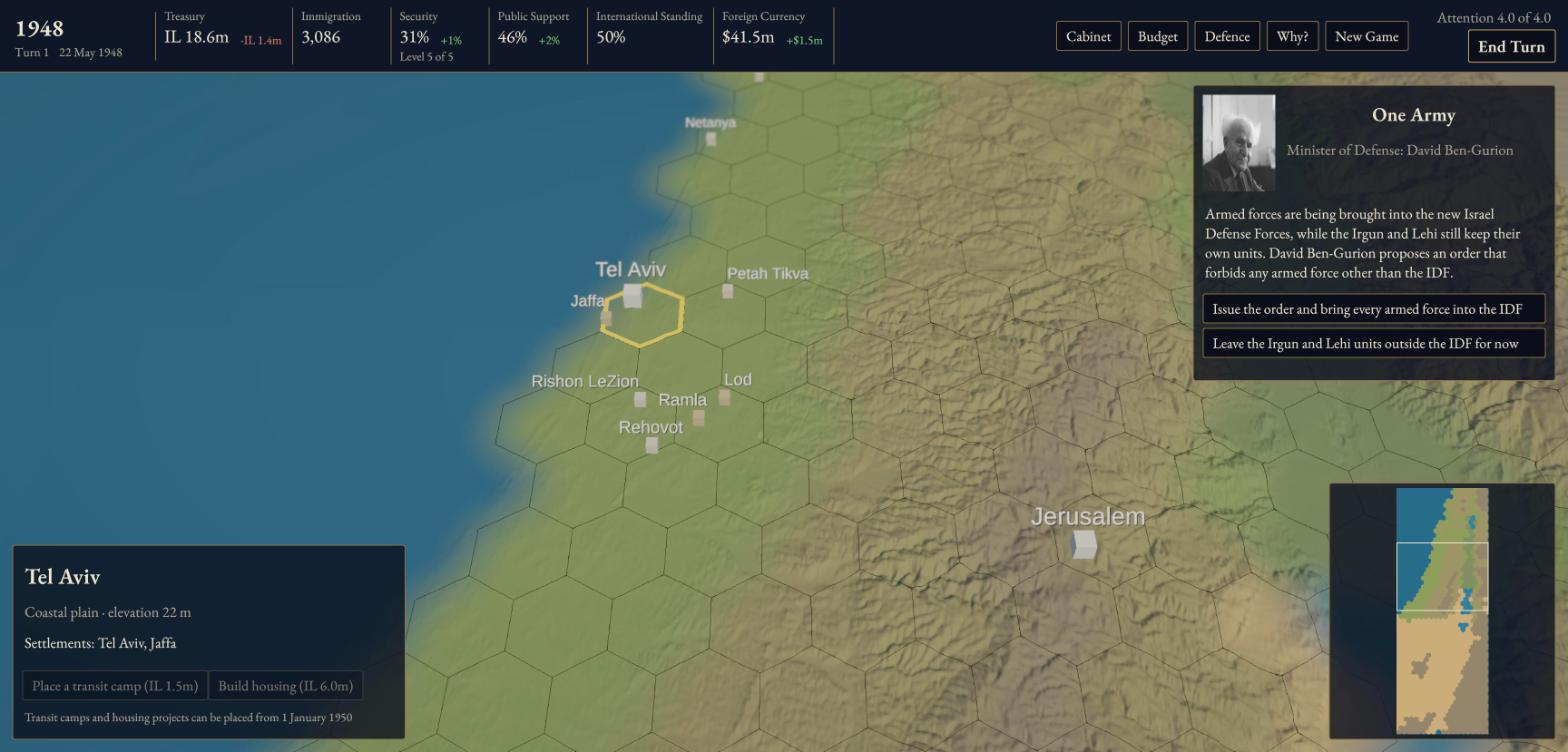
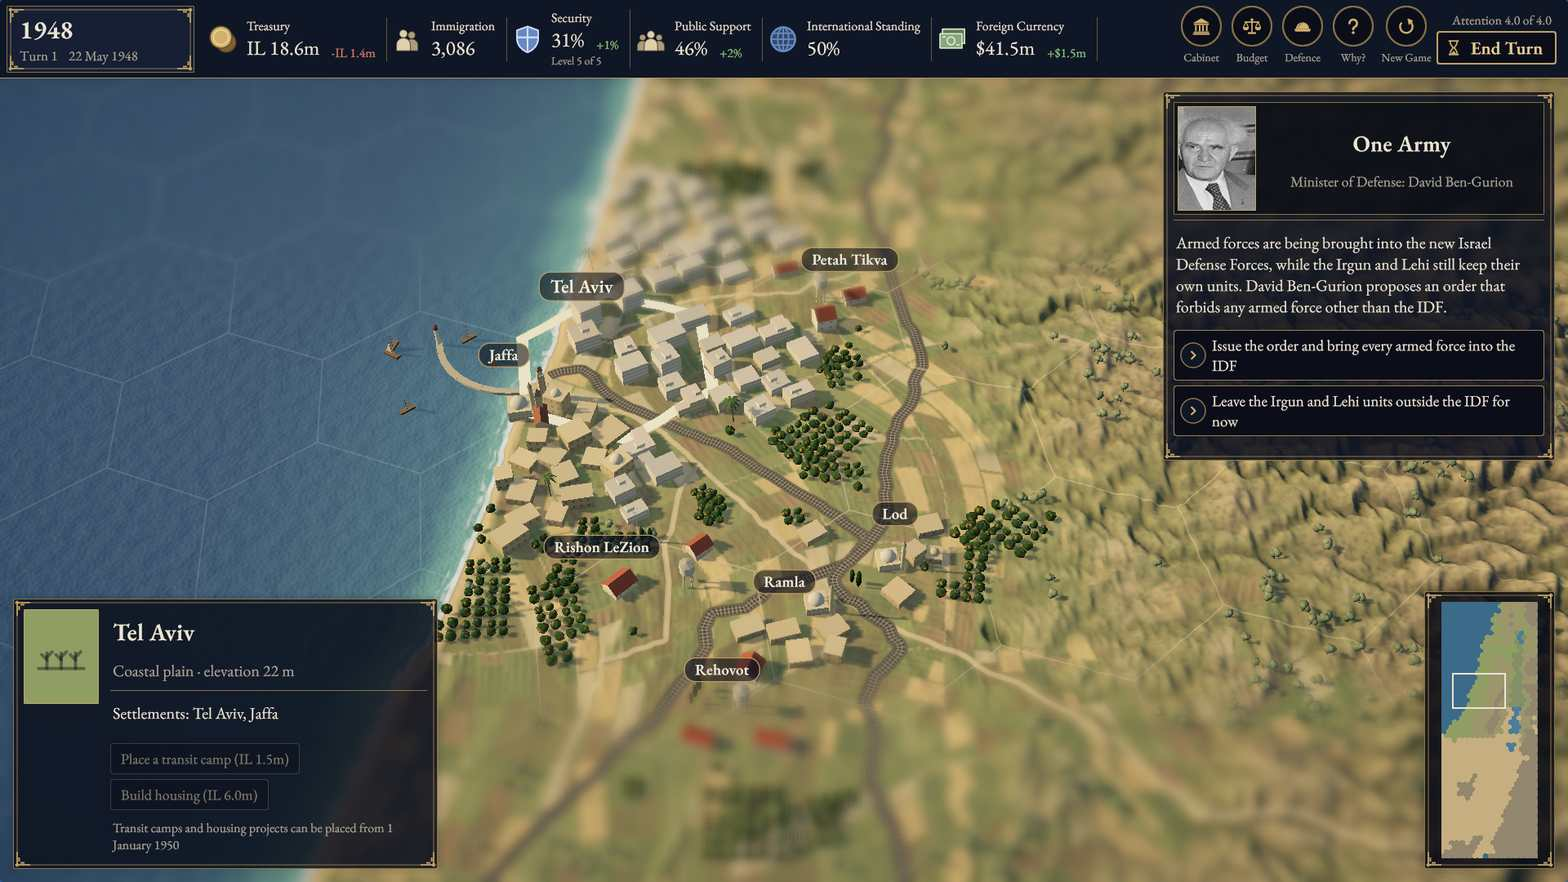
README: current screenshots and facts (2026-10-11) (refs #202) (#238)
* docs(readme): screenshots of current main and stale lines fixed

Re-take the three README screenshots from a WebGL build of main (16c9573):
the player's own ?shot frame at the gameplay03 pose, turn 1 of a fresh
golden-seed game (?smoke=1), 1920x1080, encoded at 1568 px wide. The
social preview is rebuilt from the new map shot (docs/RELEASING.md).
Caption date 2026-10-11; the map alt text names what the frame shows.

Stale lines: Visual v1 is done, settlements are placeholder kits and trees
(#179), the tab icon was drawn with AI help (#169), and the portraits
include CC0 files.

* WIP: README map alt text for roads and land use; social-preview row says padded

Screenshots still from 16c9573; re-shoot pending (machine on hold).

* docs(readme): map and Cabinet shots and social preview from main 19de7d1, normal play

Fresh golden-seed game at turn 1 (?smoke=1), camera moved to gameplay03 with real input,
no ?shot (so no showcase train). Why shot still to come.

* docs(readme): Why shot from main 19de7d1, normal play

* docs(releasing): the README shots are now 1568 x 882 (16:9), still below Steam's 1920 x 1080

---------

diff --git a/scripts/oss/tests/test_readme.py b/scripts/oss/tests/test_readme.py
@@ -128,7 +128,7 @@ def test_contributing_links_the_issue_filters_and_the_open_issues():
 
 def test_hebrew_readme_keeps_the_english_facts():
     he = read("README.he.md")
-    for fact in ("15 במאי 1948", "M3", "0.1.0", "2026-10-10", "M4", "CC BY-SA 4.0", "CC0", "Firaxis", "2K", "1936",
+    for fact in ("15 במאי 1948", "M3", "0.1.0", "2026-10-11", "M4", "CC BY-SA 4.0", "CC0", "Firaxis", "2K", "1936",
                  "6000.3.25f1", "docs/CONTENT_POLICY.md", "historical_accuracy.yml", "SECURITY.md"):
         assert fact in he, fact
     assert "מסחרית" in he  # a commercial edition is planned

diff --git a/scripts/oss/tests/test_store_review_corrections.py b/scripts/oss/tests/test_store_review_corrections.py
@@ -37,7 +37,7 @@ def test_checklist_reports_measured_readme_screenshots():
     text = checklist()
     for width, height in sizes:
         assert f'{width} x {height}' in text
-    assert 'not 16:9' in text
+    assert 'smaller than this minimum' in text
 
 
 def test_trailer_recommendation_is_separate_from_project_rule():

diff --git a/README.md b/README.md
@@ -38,12 +38,12 @@ A deterministic C# simulation runs underneath. The same choices always give the 
 ## What it looks like today
 
 <p align="center">
-  <img src="docs/images/build-m3-map.jpg" alt="Current build: the terrain map of the coastal plain and Jerusalem with hex lines, settlement markers, the top bar and an event card" width="820">
+  <img src="docs/images/build-m3-map.jpg" alt="Current build: the coastal plain around Tel Aviv, Jaffa and Ramla with hex lines, settlement models, fields and groves, railways and roads, the top bar and an event card" width="820">
 </p>
 <p align="center">
   <img src="docs/images/build-m3-cabinet.jpg" alt="Current build: the Cabinet screen listing the Provisional Government's ministers with portraits" width="405">
   <img src="docs/images/build-m3-why.jpg" alt="Current build: the Why panel explaining a turn's changes" width="405">
-  <br><em>Real screenshots from build 0.1.0 (M3), 2026-10-10.</em>
+  <br><em>Real screenshots from build 0.1.0 (M3), 2026-10-11.</em>
 </p>
 
 ## Is this any good?
@@ -61,7 +61,7 @@ It is an early, honest prototype.
 - The browser (WebGL) build.
 
 **What is missing:**
-- The art in the concept image above. Settlements are still simple markers.
+- The art in the concept image above. Settlements and trees are still placeholder art.
 - Diplomacy.
 - War mode.
 - Anything after 1951.
@@ -69,7 +69,7 @@ It is an early, honest prototype.
 
 ## Roadmap
 
-- **Visual v1 (next):** shadows at map scale, a two-band tilt-shift, a stylised terrain shader, a graded sea, a cleaner hex grid and serif labels.
+- **Visual v1 (done):** shadows at map scale, a two-band tilt-shift, a stylised terrain shader, a graded sea, a cleaner hex grid and serif labels.
 - **M4:** the full 1948–1956 slice, war mode for 1948 and Suez, the legacy report, a historian review and a hosted browser build.
 - **Art track:** era-correct 3D settlements, vegetation and units, toward the concept image.
 
@@ -125,7 +125,7 @@ You need Unity **6000.3.25f1 (6.3 LTS)** with Web Build Support; the exact versi
 
 This project is built with heavy AI assistance, disclosed here using itch.io's categories:
 - **Code:** written with AI coding agents and reviewed through tests and review gates.
-- **Graphics:** the concept and promo images in `promo/` are AI-generated. The game's terrain comes from real elevation data. The portraits are public-domain photographs.
+- **Graphics:** the concept and promo images in `promo/` are AI-generated, and the web page's tab icon was drawn with AI help. The game's terrain comes from real elevation data. The portraits are public-domain or CC0 photographs.
 - **Text:** event and content text was drafted with AI, and every fact is checked against the cited source.
 - **Sound:** none yet.
 
@@ -137,7 +137,7 @@ Nothing is generated live while you play.
 - **Original art, docs and data:** [CC BY 4.0](LICENSES/CC-BY-4.0.txt).
 - **Game content text** (`content/`, which paraphrases its sources, many from Wikipedia): [CC BY-SA 4.0](LICENSES/CC-BY-SA-4.0.txt).
 - **AI-generated images:** marked [CC0](LICENSES/CC0-1.0.txt), with no rights claimed.
-- **Third-party material:** fonts, public-domain portraits and the Unity engine and packages are under their own terms.
+- **Third-party material:** fonts, public-domain and CC0 portraits and the Unity engine and packages are under their own terms.
 
 Details are in [LICENSING.md](LICENSING.md); attributions are in [NOTICE](NOTICE) and [THIRD-PARTY-NOTICES.md](THIRD-PARTY-NOTICES.md), and every image's source is in [ASSETS.yaml](ASSETS.yaml).
 

diff --git a/README.he.md b/README.he.md
@@ -31,7 +31,7 @@ https://github.com/user-attachments/assets/56571db8-446b-444b-8db9-fce57dac53a7
 
 <div dir="rtl">
 
-<p align="center"><em>צילומי מסך אמיתיים מגרסה 0.1.0 (M3), 2026-10-10.</em></p>
+<p align="center"><em>צילומי מסך אמיתיים מגרסה 0.1.0 (M3), 2026-10-11.</em></p>
 
 </div>
 
@@ -95,7 +95,7 @@ https://github.com/user-attachments/assets/56571db8-446b-444b-8db9-fce57dac53a7
 
 ## שימוש בבינה מלאכותית
 
-הפרויקט נבנה בסיוע נרחב של בינה מלאכותית. קוד נכתב עם סוכני קוד ונבדק בבדיקות ובסקירות קוד; תמונות הקונספט והפרומו הן תוצר של בינה מלאכותית, וטקסט האירועים נוסח בסיועה וכל עובדה בו נבדקת מול המקור המצוטט. הפורטרטים הם צילומים בנחלת הכלל, ואין עדיין סאונד. דבר אינו נוצר בזמן אמת במהלך המשחק.
+הפרויקט נבנה בסיוע נרחב של בינה מלאכותית. קוד נכתב עם סוכני קוד ונבדק בבדיקות ובסקירות קוד; תמונות הקונספט והפרומו הן תוצר של בינה מלאכותית, סמל הלשונית של דף המשחק צויר בסיועה, וטקסט האירועים נוסח בסיועה וכל עובדה בו נבדקת מול המקור המצוטט. הפורטרטים הם צילומים בנחלת הכלל או ברישיון CC0, ואין עדיין סאונד. דבר אינו נוצר בזמן אמת במהלך המשחק.
 
 ## רישיון
 

diff --git a/docs/RELEASING.md b/docs/RELEASING.md
@@ -95,7 +95,7 @@ assets or content for commercial use. Finish the release gates above first; the 
 
 - [ ] Capture at least five gameplay screenshots, minimum 1920 x 1080, 16:9, from the real release build, not concept art,
   pre-rendered cinematic stills or marketing images. Record the build commit and zip SHA-256 with the capture date.
-  The README build shots (`docs/images/build-m3-*.jpg`, 1568 x 752 and not 16:9) do not meet this minimum. Show the
+  The README build shots (`docs/images/build-m3-*.jpg`, 1568 x 882) are smaller than this minimum. Show the
   actual UI when useful; do not pass off `promo/final/03-gameplay-1936.png` or the AI likenesses in promo/final/04 and
   08 as gameplay. Review each screenshot's age-suitability flag individually; never mark a sensitive scene suitable for
   all ages just to gain placement. If at least four genuinely qualify, mark them suitable for all ages; with fewer
